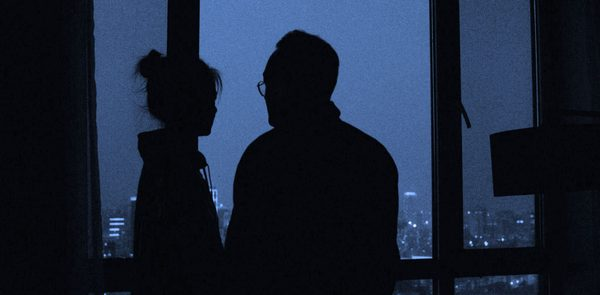
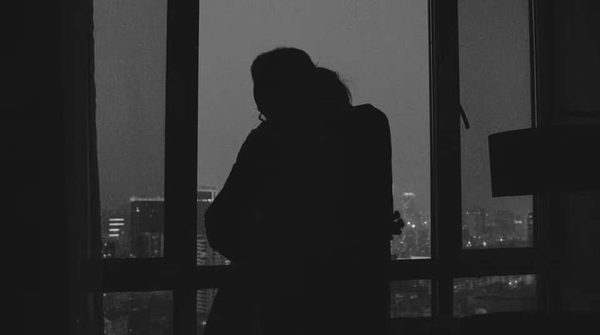
Add Between Yes and No stills, update Chinese Whispers thumbnail
- Add thumbnail and hero image for Between Yes and No
- Replace Chinese Whispers (murmur) thumb and hero with better B&W still
- Bump cache version to v=9

diff --git a/js/app.js b/js/app.js
@@ -110,6 +110,8 @@
       type: 'short',
       format: { en: 'Short Film', zh: '短片' },
       duration: { en: 'TBD', zh: '待定' },
+      thumbnail: 'images/between-yes-and-no-thumb.jpg',
+      heroImage: 'images/between-yes-and-no-hero.jpg',
       descEn: 'Description placeholder for Between Yes and No.',
       descZh: '《是与不是之间》简介占位。',
       credits: { en: 'Written & Directed by Niu Han', zh: '编剧/导演：牛涵' }

diff --git a/index.html b/index.html
@@ -404,6 +404,6 @@
     </span>
   </footer>
 
-  <script src="js/app.js?v=8"></script>
+  <script src="js/app.js?v=9"></script>
 </body>
 </html>
